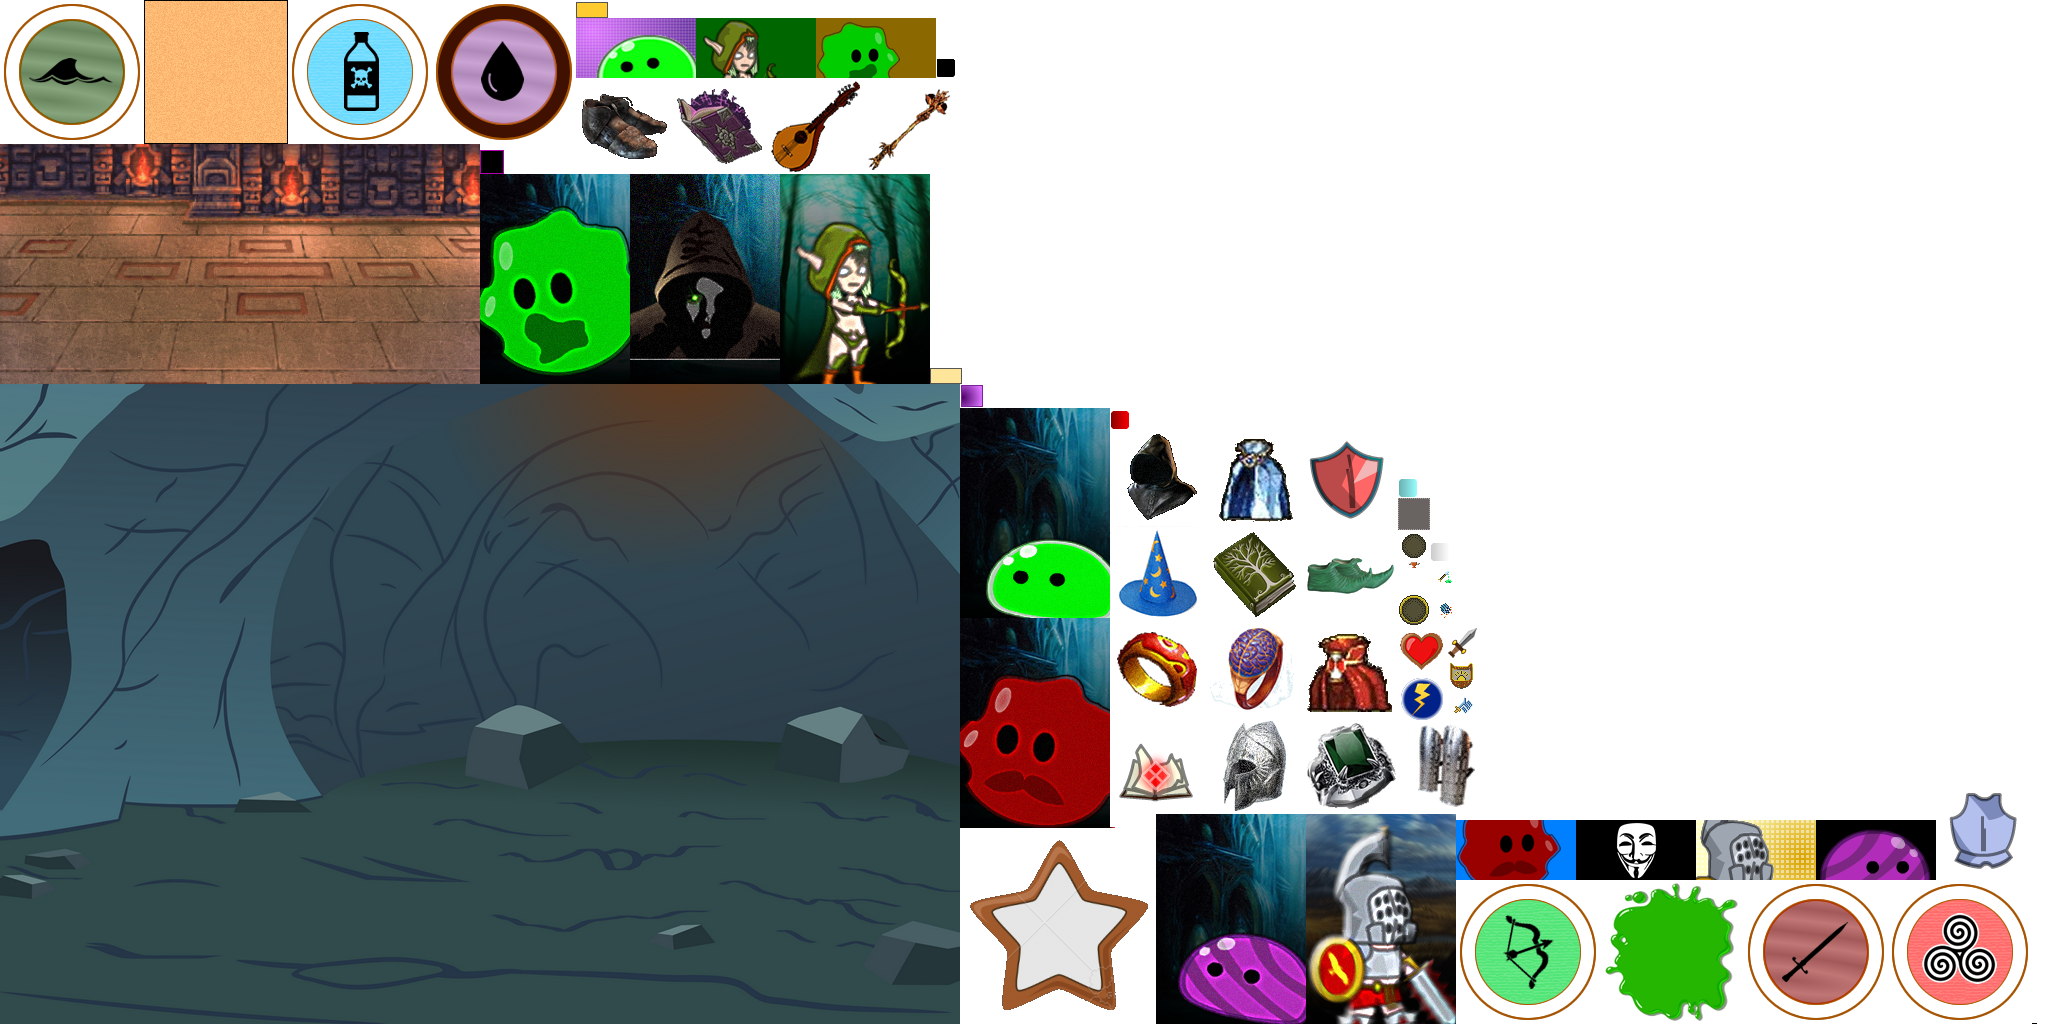
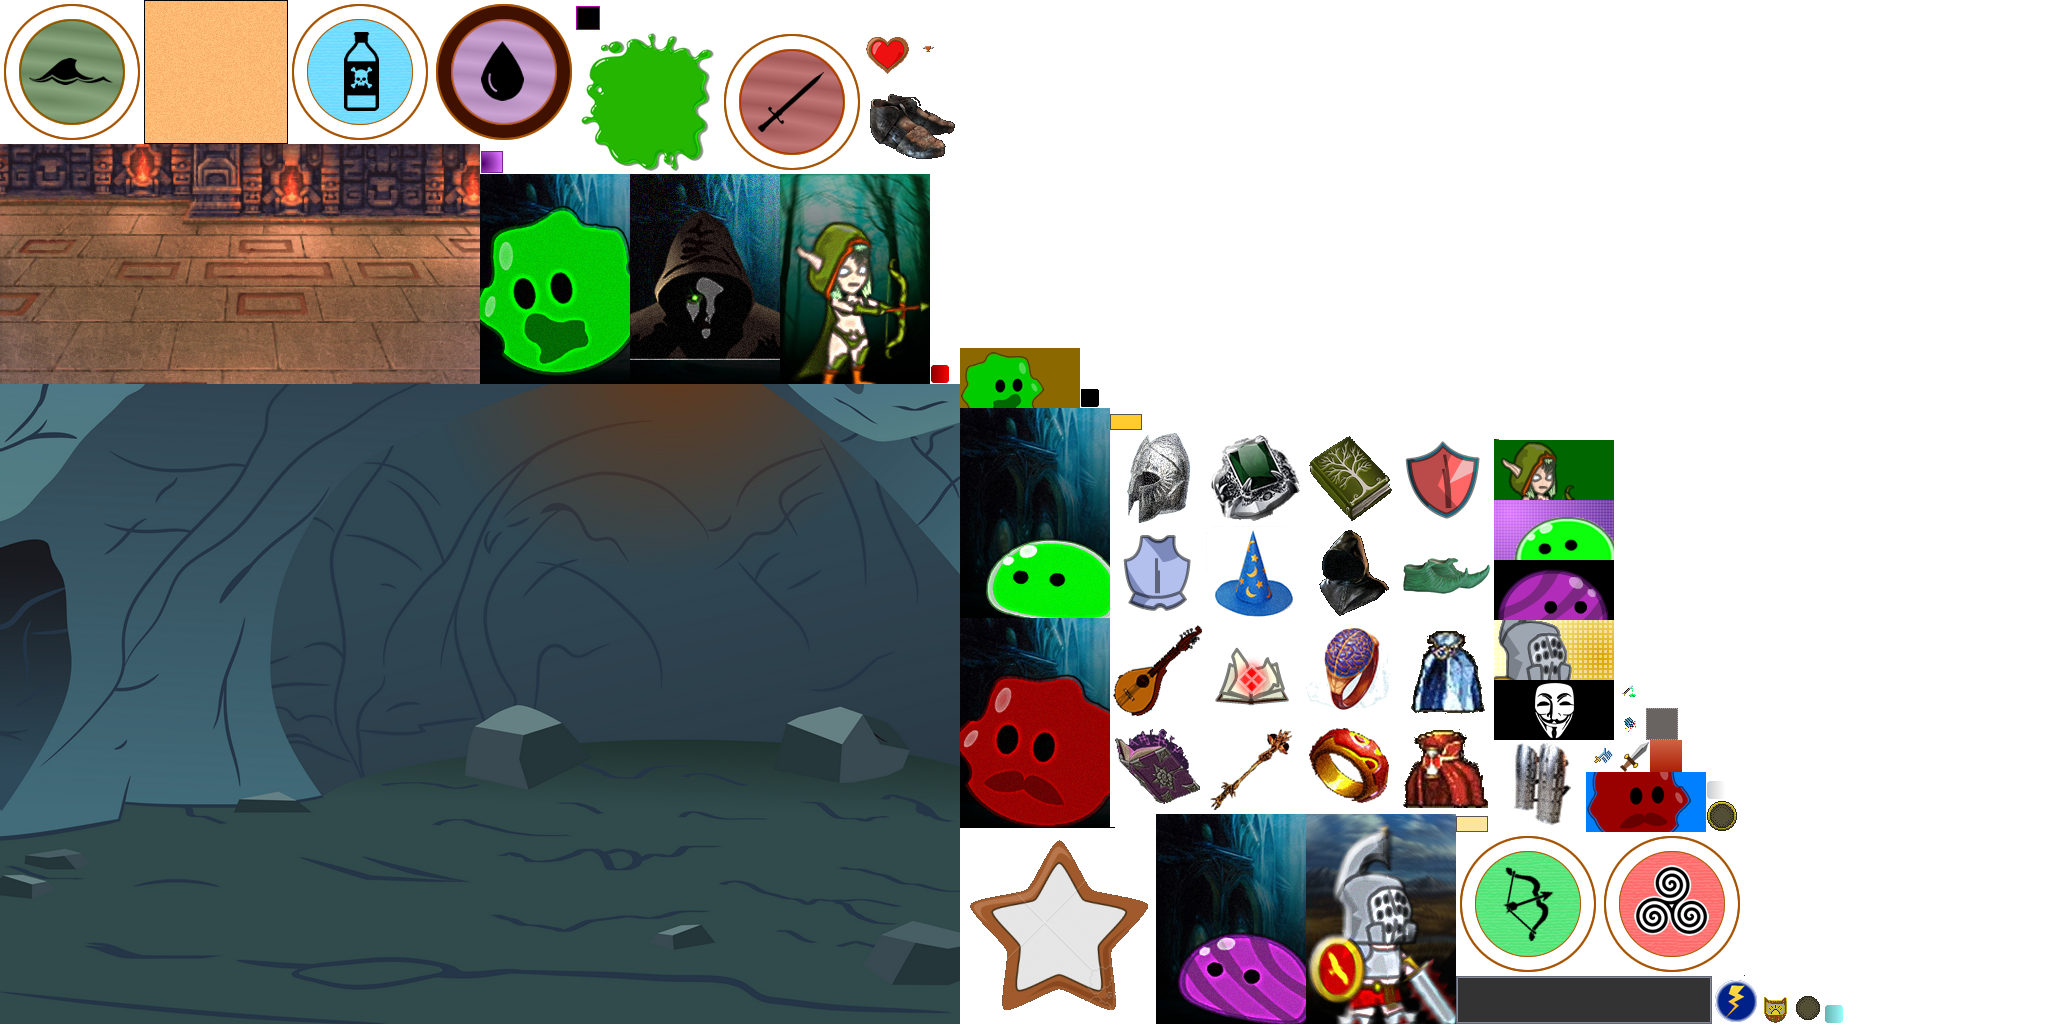
add healthbar

Changed region(s): [[0.4375, 0.3125, 1.0, 1.0], [0.2812, 0.0, 0.4688, 0.1875], [0.2188, 0.125, 0.25, 0.1875]]

diff --git a/android/core/src/com/game7th/swipe/game/battle/BattleController.kt b/android/core/src/com/game7th/swipe/game/battle/BattleController.kt
@@ -24,11 +24,12 @@ class BattleController(
         private val endEventHandler: (event: BattleEvent) -> Unit
 ) {
 
-    private val elements = mutableListOf<ElementController>()
+    private val controllers = mutableListOf<ElementController>()
 
     private val backgroundTexture = context.gameContext.atlas.findRegion("battle_bg", 1)
 
     var effectId = 10000
+    var hudId = 20000
     val scale = 0.85f * context.scale
 
     val controllersToRemove = mutableListOf<ElementController>()
@@ -41,7 +42,7 @@ class BattleController(
     fun act(batch: SpriteBatch, delta: Float) {
         batch.draw(backgroundTexture, 0f, y, context.width, context.width * 0.67f)
 
-        elements.forEach { it.render(batch, delta) }
+        controllers.sortedBy { it.id }.forEach { it.render(batch, delta) }
 
         timePassed += delta * timeScale()
         timeShift = max(timePassed, timeShift)
@@ -52,7 +53,7 @@ class BattleController(
             }
         }
 
-        elements.removeAll(controllersToRemove)
+        controllers.removeAll(controllersToRemove)
         controllersToRemove.clear()
         actions.removeAll { it.first < timePassed }
 
@@ -66,7 +67,7 @@ class BattleController(
         sounds[sound]?.play()
     }
 
-    private fun findFigure(id: Int?) = elements.firstOrNull { it.id == id } as? FigureController
+    private fun findFigure(id: Int?) = controllers.firstOrNull { it.id == id } as? FigureController
 
     fun processEvent(event: BattleEvent) {
         when (event) {
@@ -97,7 +98,17 @@ class BattleController(
             is BattleEvent.PersonagePositionedAbilityEvent -> {
                 schedulePositionedAbility(event)
             }
+            is BattleEvent.PersonageUpdateEvent -> {
+                schedulePersonageUpdateViewModel(event)
+            }
         }
+    }
+
+    private fun schedulePersonageUpdateViewModel(event: BattleEvent.PersonageUpdateEvent) {
+        scheduledActions.add(Pair(timeShift) {
+            findFigure(event.personage.id)?.let { it.viewModel = event.personage }
+            Unit
+        })
     }
 
     private fun schedulePositionedAbility(event: BattleEvent.PersonagePositionedAbilityEvent) {
@@ -118,7 +129,7 @@ class BattleController(
                 effect.sound?.let { playSound(it) }
                 findFigure(event.target)?.let { figure ->
                     EffectController(context, this, effectId++, figure, effect).let {
-                        elements.add(it)
+                        controllers.add(it)
                     }
                 }
             }
@@ -138,7 +149,7 @@ class BattleController(
                         event.amount,
                         Color.GREEN
                 )
-                elements.add(controller)
+                controllers.add(controller)
             }
             Unit
         })
@@ -157,7 +168,7 @@ class BattleController(
                         Color.RED
                 )
                 figure.switchPose(FigurePose.POSE_DAMAGE)
-                elements.add(controller)
+                controllers.add(controller)
             }
             Unit
         })
@@ -205,7 +216,7 @@ class BattleController(
                                 })
                                 scheduledActions.add(Pair(timeShift + attackTriggerDuration) {
                                     SteppedGeneratorEffectController(context, this, effectId++, figure.x + 70f * scale * (if (figure.flipped) -1f else 1f), figure.originY,
-                                            if (figure.flipped) 0f else Gdx.graphics.width.toFloat(), effect).let { elements.add(it) }
+                                            if (figure.flipped) 0f else Gdx.graphics.width.toFloat(), effect).let { controllers.add(it) }
                                     Unit
                                 })
                                 timeShift += triggerDuration + attackTriggerDuration
@@ -224,7 +235,7 @@ class BattleController(
                                 })
                                 scheduledActions.add(Pair(timeShift + attackTriggerDuration) {
                                     targets.forEach {
-                                        it?.let { EffectController(context, this, effectId++, it, effect).let { elements.add(it) } }
+                                        it?.let { EffectController(context, this, effectId++, it, effect).let { controllers.add(it) } }
                                     }
                                 })
                                 timeShift += triggerDuration + attackTriggerDuration
@@ -261,6 +272,10 @@ class BattleController(
                 it.switchPose(FigurePose.POSE_DEATH)
                 it.isDead = true
             }
+            controllers.firstOrNull { it is PersonageHealthbarController && it.figure.id == event.personage.id }?.let {
+                it.dispose()
+                controllersToRemove.add(it)
+            }
             Unit
         })
     }
@@ -279,12 +294,15 @@ class BattleController(
                     this@BattleController,
                     event.personage.id,
                     context.gdxModel.figure(event.personage.skin)!!,
+                    event.personage,
                     x,
                     y,
                     scale,
-                    event.personage.team > 0,
                     this::playSound).let {
-                elements.add(it)
+                controllers.add(it)
+                PersonageHealthbarController(context, this@BattleController, hudId++, it).let {
+                    controllers.add(it)
+                }
             }
             timeShift += 0.2f
         })

diff --git a/android/core/src/com/game7th/swipe/game/battle/PersonageHealthbarController.kt b/android/core/src/com/game7th/swipe/game/battle/PersonageHealthbarController.kt
@@ -1,0 +1,66 @@
+package com.game7th.swipe.game.battle
+
+import com.badlogic.gdx.graphics.g2d.SpriteBatch
+import com.badlogic.gdx.scenes.scene2d.utils.TextureRegionDrawable
+import com.game7th.swipe.game.GameContextWrapper
+
+class PersonageHealthbarController(
+        context: GameContextWrapper,
+        battle: BattleController,
+        id: Int,
+        val figure: FigureController
+) : ElementController(context, battle, id) {
+
+    private val healthBarBackground = context.gameContext.atlas.createPatch("hp_bar_bg")
+    private val healthBarForeground = TextureRegionDrawable(context.gameContext.atlas.findRegion("hp_bar_rect"))
+    private val blackQuad = TextureRegionDrawable(context.gameContext.atlas.findRegion("black_quad"))
+    var timePassed: Float = 0f
+    var timeHpActual: Float = timePassed
+    val healthBarWidth = 96f * battle.scale - 12f
+
+    var lastKnownValue: Float = figure.viewModel.stats.health.toFloat()
+    var displayedValue: Float = lastKnownValue
+    var lastDisplayedValue: Float = displayedValue
+
+    private var distance: Float = (healthBarWidth - 4f) * 100f / figure.viewModel.stats.maxHealth.toFloat()
+    private val hei: Float = 12f * battle.scale
+    private val sectorHei: Float = (hei - 4f) / 2f
+
+    override fun render(batch: SpriteBatch, delta: Float) {
+        timePassed += delta * battle.timeScale()
+
+        var value = figure.viewModel.stats.health.toFloat()
+        if (value != lastKnownValue) {
+            lastKnownValue = value
+            timeHpActual = timePassed + 0.3f
+            lastDisplayedValue = displayedValue
+        } else if (timeHpActual <= timePassed) {
+            displayedValue = value
+        } else {
+            displayedValue = value - (value - lastDisplayedValue) * (timeHpActual - timePassed) / 0.3f
+        }
+
+        val percent = displayedValue / figure.viewModel.stats.maxHealth
+
+        val sx = figure.x - 48f * battle.scale
+        val sy = figure.y + (20f + figure.figureModel.height) * battle.scale
+
+
+        healthBarBackground.draw(batch, sx, sy, 96f * battle.scale, hei)
+        healthBarForeground.draw(batch, sx + 6f, sy + 2f, healthBarWidth * percent, hei - 4f)
+
+        var cursor = distance
+        var index = 1
+        while (cursor < healthBarWidth) {
+            val wid = if (index % 5 == 0) 2f * context.scale else 1f * context.scale
+            val extraHei = if (index % 5 == 0) sectorHei else 0f
+            blackQuad.draw(batch, sx + 2f + cursor, sy + 2f + sectorHei - extraHei, wid, sectorHei + extraHei)
+            index++
+            cursor += distance
+        }
+    }
+
+    override fun dispose() {
+        super.dispose()
+    }
+}

diff --git a/android/core/src/com/game7th/swipe/game/battle/FigureController.kt b/android/core/src/com/game7th/swipe/game/battle/FigureController.kt
@@ -7,6 +7,7 @@ import com.badlogic.gdx.graphics.g2d.SpriteBatch
 import com.badlogic.gdx.graphics.g2d.TextureAtlas
 import com.badlogic.gdx.graphics.g2d.TextureRegion
 import com.badlogic.gdx.utils.Array
+import com.game7th.battle.personage.PersonageViewModel
 import com.game7th.swipe.game.GameContextWrapper
 import com.game7th.swipe.game.battle.model.FigureGdxModel
 
@@ -25,10 +26,10 @@ class FigureController(
         battle: BattleController,
         id: Int,
         val figureModel: FigureGdxModel,
+        var viewModel: PersonageViewModel,
         val originX: Float,
         val originY: Float,
         private val scale: Float,
-        val flipped: Boolean,
         val player: (String) -> Unit
 ) : ElementController(context, battle, id) {
 
@@ -52,6 +53,7 @@ class FigureController(
     var isDead = false
 
     lateinit var pose: FigurePose
+    val flipped = viewModel.team > 0
     private val flipMultiplier = if (flipped) -1 else 1
 
     init {
